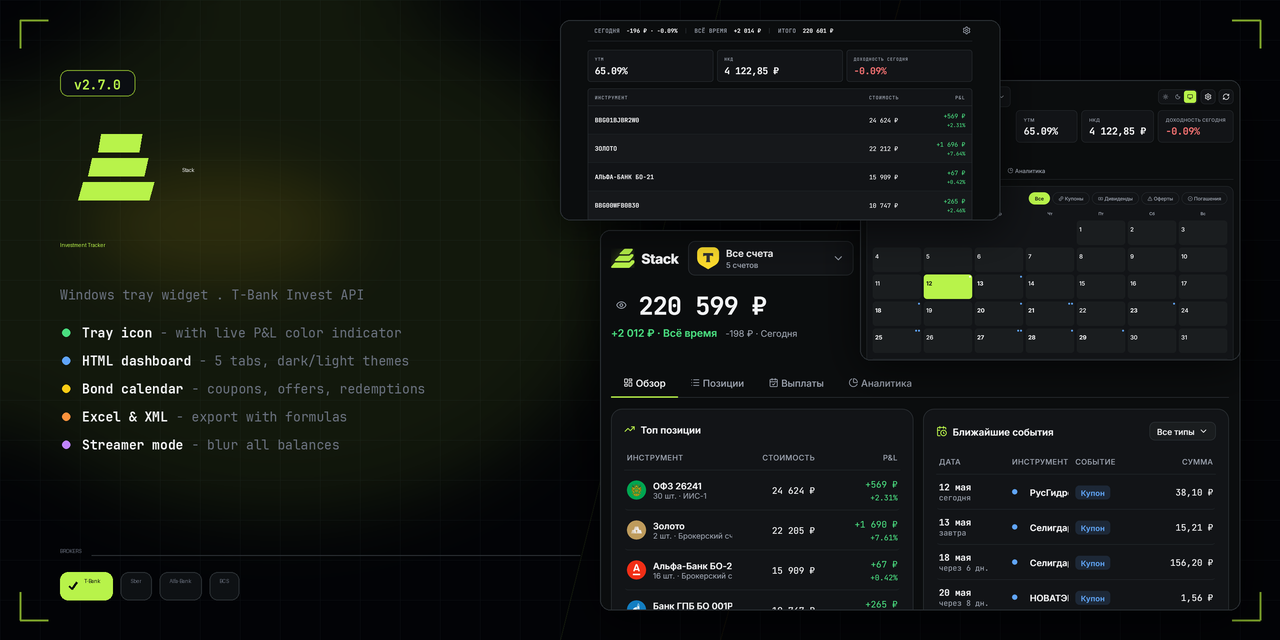
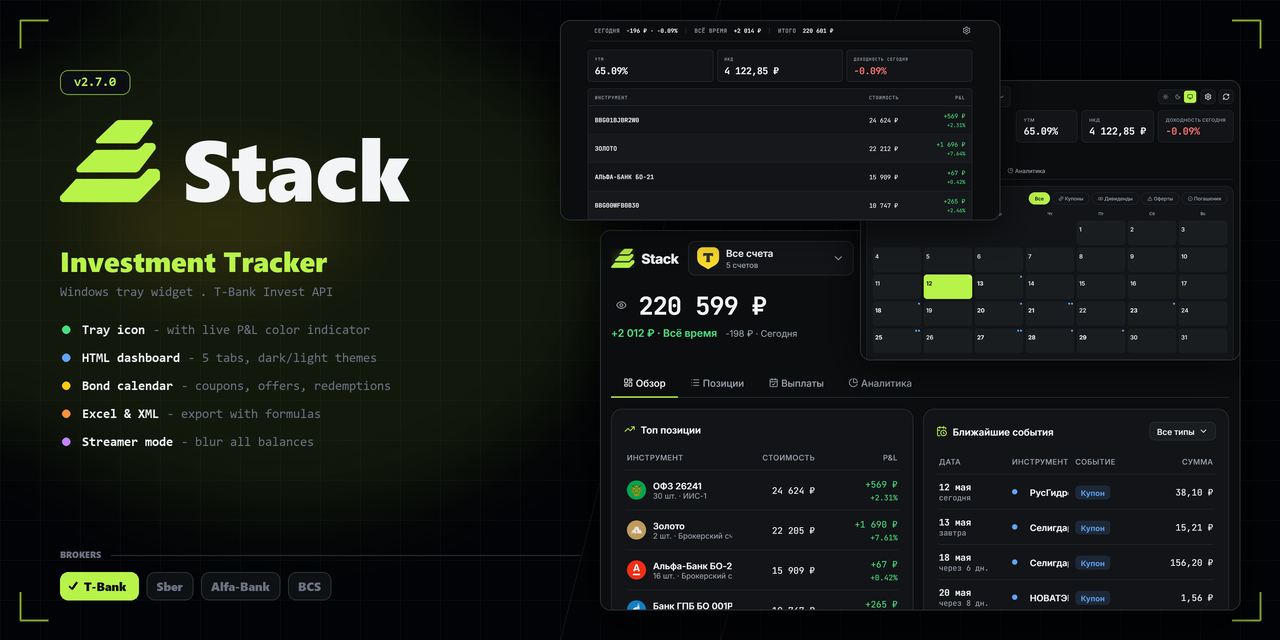
v2.7.3

diff --git a/README.md b/README.md
@@ -4,26 +4,243 @@
 
 # Stack
 
-**Windows-виджет в трее для отслеживания инвестиционного портфеля**
+**Windows tray widget for tracking your investment portfolio**
 
 [![Python](https://img.shields.io/badge/Python-3.13+-3776AB?logo=python&logoColor=white)](https://www.python.org/)
 [![Windows](https://img.shields.io/badge/Windows-10%2F11-0078D6?logo=windows&logoColor=white)](https://www.microsoft.com/windows)
 [![Release](https://img.shields.io/github/v/release/Damfler/Invest-Dekstop-Watcher?color=B8F34A&label=release)](https://github.com/Damfler/Invest-Dekstop-Watcher/releases/latest)
 [![License](https://img.shields.io/badge/License-MIT-green.svg)](LICENSE)
 
-<a href="https://github.com/Damfler/Invest-Dekstop-Watcher/releases/latest">
-  <img src="https://img.shields.io/badge/Скачать-Stack.exe-B8F34A?style=for-the-badge&logo=windows&logoColor=0B0D0E&labelColor=0B0D0E" alt="Download" />
-</a>
+<p>
+  <a href="#english"><img src="https://img.shields.io/badge/Readme-English-B8F34A?style=for-the-badge&labelColor=0B0D0E&color=0B0D0E" alt="English" /></a>
+  &nbsp;
+  <a href="#russian"><img src="https://img.shields.io/badge/Readme-Русский-FF2D55?style=for-the-badge&labelColor=0B0D0E&color=0B0D0E" alt="Русский" /></a>
+</p>
+
+<sub>Click a badge to jump · expand a section below to read</sub>
+
+</div>
 
 ---
 
-<img src="assets/github-social-preview.png" alt="Stack — Investment Tracker" width="100%" />
+<a id="english"></a>
+
+<details open>
+<summary><strong>🇬🇧 English</strong></summary>
+
+<div align="center">
+
+<a href="https://github.com/Damfler/Invest-Dekstop-Watcher/releases/latest">
+  <img src="https://img.shields.io/badge/Download-Stack.exe-B8F34A?style=for-the-badge&logo=windows&logoColor=0B0D0E&labelColor=0B0D0E" alt="Download" />
+</a>
+
+<br><br>
+
+<img src="assets/github-social-preview-en.png" alt="Stack — Investment Tracker" width="100%" />
+
+</div>
+
+## What is Stack?
+
+**Stack** lives in the Windows system tray and shows your investment portfolio in near real time. The tray icon reflects current P&L; a left click opens an HTML dashboard with positions, bonds, events (coupons / offers / maturities), charts, and per-account filters.
+
+**T-Bank Invest API** is supported today. The architecture is ready for more brokers.
+
+## Features
+
+| | |
+|---|---|
+| 🟢 **Tray icon** | Color reflects P&L: green / red / gray. Offer soon → orange; offer today → blinking red |
+| 📊 **HTML dashboard** | 5 tabs: Overview, Positions, Bonds, Analytics, Settings. Dark / light / system theme |
+| 📅 **Event calendar** | Coupons, offers, maturities with color coding and pop-up details |
+| 🥧 **Allocation** | Doughnut charts by asset type and by instrument, currency exposure |
+| 💰 **Coupon flow** | 12-month bar chart of expected coupons |
+| 🏦 **Multi-account** | Compare accounts, filter, per-account totals |
+| 🔍 **Search & filters** | Position search, 6 sort modes, filters by instrument type |
+| 📤 **Export** | Excel (.xlsx with formulas) and XML, 2 sheets |
+| 🔔 **Notifications** | Windows toasts: offers, coupons, portfolio moves |
+| 🔄 **Auto-update** | Via GitHub Releases — one click, automatic restart |
+| 🎬 **Streamer mode** | Blur balances with one click |
+| ⌨ **Hotkeys** | `Ctrl+R` refresh, `Esc` close, `1-4` switch tabs |
+| 💿 **Compact mode** | Mono table layout — minimal chrome for daily use |
+
+## Installation
+
+### 🚀 Pre-built `.exe` — recommended
+
+1. [Download Stack.exe](https://github.com/Damfler/Invest-Dekstop-Watcher/releases/latest) from the latest release
+2. Run it — the first-run wizard opens
+3. Create a token in **T-Invest → Settings → API → Create token** (read-only)
+4. Paste the token in the wizard; optionally enable “Run with Windows”
+
+User data is stored in `%APPDATA%\Stack\` (config, cache, logs). The app itself is a single `Stack.exe` (~50–80 MB), no extra runtime required.
+
+### 🛠 From source
+
+```bash
+git clone https://github.com/Damfler/Invest-Dekstop-Watcher.git
+cd Invest-Dekstop-Watcher
+pip install -r requirements.txt
+python main.py
+```
+
+For development, put your token in `.env`:
+
+```
+TBANK_TOKEN=t.your_token_here
+```
+
+## Configuration
+
+`config.json` is created automatically in `%APPDATA%\Stack\` (`.exe`) or next to the script (dev). Most options are available in the dashboard — **Settings** (gear in the header).
+
+| Parameter | Description |
+|----------|----------|
+| `theme` | Dashboard theme: `system` / `dark` / `light` |
+| `design` | Layout: `classic` / `simple` (compact mono mode) |
+| `bond_horizon_days` | Bond event horizon (30–365 days) |
+| `notify_offer_days` | Days before an offer to warn |
+| `notify_move_pct` | Portfolio move threshold (%) for notifications |
+| `auto_update` | Check for updates on startup |
+| `use_logos` | Instrument logos from T-Bank CDN |
+
+## Architecture
+
+<details>
+<summary>Project structure</summary>
+
+```text
+├── main.py              # Entry point, wizard, init
+├── version.py           # APP_VERSION, APP_NAME
+├── constants.py         # Timers, alerts, broker list
+├── core/
+│   ├── app.py           # StackTrayApp — pystray + pywebview
+│   ├── data_store.py    # Thread-safe store with snapshot()
+│   ├── config.py        # Load/save config.json
+│   └── cache.py         # Data cache + portfolio history
+├── api/
+│   ├── client.py        # T-Bank REST client (retry, rate-limit)
+│   └── endpoints.py     # Endpoint URLs
+├── ui/
+│   ├── window.py        # pywebview window + JS API
+│   ├── menu.py          # Callable pystray menu
+│   ├── wizard.py        # First-run wizard
+│   └── icons.py         # Tray icons (Pillow + PNG from assets/)
+├── utils/
+│   ├── formatting.py    # Number/date formatting
+│   ├── analytics.py     # YTM, allocation, top-movers, cashflow
+│   ├── notifications.py # Toast notifications (plyer)
+│   ├── autostart.py     # Windows autostart registry
+│   └── updater.py       # GitHub Releases auto-update
+├── assets/
+│   ├── dashboard.html   # HTML dashboard (Chart.js + Lucide)
+│   └── icons/           # Logo, tray state icons
+└── tools/
+    ├── gen_icons.py             # Icon generator from logo.svg
+    └── gen_social_preview.py    # GitHub Social Preview
+```
+
+</details>
+
+<details>
+<summary>Tech stack</summary>
+
+- **Python 3.13+** — core runtime
+- **pystray** + **Pillow** — tray icon, sprite generation
+- **pywebview** (Edge WebView2) — dashboard window
+- **requests** — T-Bank REST client
+- **plyer** — native Windows toast notifications
+- **openpyxl** — Excel export with formulas
+- **Chart.js** + **Lucide** + **html2canvas** — frontend (CDN)
+- **resvg-py** — SVG icon rendering (build-time)
+- **PyInstaller** — single-file `.exe` build
+
+</details>
+
+## Build `.exe`
+
+```bash
+build.bat
+# or directly:
+python -m PyInstaller stack.spec --noconfirm --clean
+```
+
+Output: `dist/Stack.exe`. Resources (HTML, icons) are bundled inside.
+
+## Icons
+
+All tray state icons (`positive.png` / `negative.png` / `neutral.png` / `warn.png` / `crit.png`) are generated from one `assets/icons/logo.svg`:
+
+```bash
+python tools/gen_icons.py             # all: PNG icons + .ico
+python tools/gen_icons.py --states    # tray states only
+python tools/gen_icons.py --brand     # icon.png + icon.ico only
+```
+
+Icons are rendered with `resvg-py` (native Rust renderer, no cairo), recolored via alpha channel on a squircle background. Custom colors: edit `PRESETS` in `tools/gen_icons.py`.
+
+## GitHub Social Preview
+
+Repository share image (1280×640). Uses real app screenshots from `assets/mockups/` when present; otherwise draws a mockup with Pillow.
+
+```bash
+python tools/gen_social_preview.py            # en (default)
+python tools/gen_social_preview.py --locale ru
+python tools/gen_social_preview.py --all      # both locales
+```
+
+Capture screenshots from the app: enable **Dev mode** in Settings → click 📷 in the header on the screen you need.
+
+**Upload to GitHub:** `Settings → Options → Social preview → Edit → Upload image` (use `assets/github-social-preview-en.png`).
+
+## Supported brokers
+
+| Broker | Status |
+|--------|--------|
+| 🟢 **T-Bank (T-Invest)** | Ready |
+| 🟡 Sber Invest | Planned |
+| 🟡 VTB My Investments | Planned |
+| 🟡 Alfa Investments | Planned |
+| 🟡 BCS World of Investments | Planned |
+
+Broker list lives in `constants.BROKERS` + `wizard.py`. To add one: implement an `api/client.py`-compatible class and add `elif broker == "xxx"` in `main.py`.
+
+## Author
+
+**Dmitry Gashuk**
+
+<a href="https://pay.cloudtips.ru/p/789f174f">
+  <img src="https://img.shields.io/badge/❤-Support%20the%20project-FF2D55?style=for-the-badge" alt="Donate" />
+</a>
+
+<div align="center">
+<sub>Made with ❤ · 2026</sub>
+</div>
+
+</details>
+
+---
+
+<a id="russian"></a>
+
+<details>
+<summary><strong>🇷🇺 Русский</strong></summary>
+
+<div align="center">
+
+<a href="https://github.com/Damfler/Invest-Dekstop-Watcher/releases/latest">
+  <img src="https://img.shields.io/badge/Скачать-Stack.exe-B8F34A?style=for-the-badge&logo=windows&logoColor=0B0D0E&labelColor=0B0D0E" alt="Скачать" />
+</a>
+
+<br><br>
+
+<img src="assets/github-social-preview-ru.png" alt="Stack — трекер инвестиций" width="100%" />
 
 </div>
 
 ## Что это
 
-**Stack** живёт в системном трее Windows и показывает состояние твоего инвестиционного портфеля в реальном времени. Иконка меняет цвет в зависимости от текущего P&L, по левому клику открывается HTML-дашборд с подробной аналитикой: позиции, облигации, события (купоны/оферты/погашения), графики и фильтры по счетам.
+**Stack** живёт в системном трее Windows и показывает состояние инвестиционного портфеля в реальном времени. Иконка меняет цвет в зависимости от текущего P&L, по левому клику открывается HTML-дашборд: позиции, облигации, события (купоны / оферты / погашения), графики и фильтры по счетам.
 
 Сейчас поддерживается **T-Bank Invest API**. Архитектура подготовлена для других брокеров.
 
@@ -31,8 +248,8 @@
 
 | | |
 |---|---|
-| 🟢 **Трей-иконка** | Цвет отражает P&L: зелёный/красный/серый. При оферте — оранжевая, при оферте сегодня — мигающая красная |
-| 📊 **HTML-дашборд** | 5 вкладок: Обзор, Позиции, Облигации, Аналитика, Настройки. Тёмная/светлая/системная тема |
+| 🟢 **Трей-иконка** | Цвет отражает P&L: зелёный / красный / серый. При оферте — оранжевая, при оферте сегодня — мигающая красная |
+| 📊 **HTML-дашборд** | 5 вкладок: Обзор, Позиции, Облигации, Аналитика, Настройки. Тёмная / светлая / системная тема |
 | 📅 **Календарь событий** | Купоны, оферты, погашения с цветовой подсветкой и popup-деталями |
 | 🥧 **Аллокация** | Doughnut-чарт по типам и по бумагам, валютная экспозиция |
 | 💰 **Купонный поток** | Бар-чарт по месяцам на 12 месяцев вперёд |
@@ -43,7 +260,7 @@
 | 🔄 **Автообновление** | Через GitHub Releases — одна кнопка, перезапуск автоматически |
 | 🎬 **Режим стримера** | Размытие балансов одним кликом |
 | ⌨ **Горячие клавиши** | `Ctrl+R` обновить, `Esc` закрыть, `1-4` табы |
-| 🪶 **Компактный режим** | Mono-таблица без лишних элементов — для повседневного использования |
+| 💿 **Компактный режим** | Mono-таблица без лишних элементов — для повседневного использования |
 
 ## Установка
 
@@ -66,13 +283,14 @@ python main.py
 ```
 
 Для разработки положи токен в `.env`:
+
 ```
 TBANK_TOKEN=t.твой_токен
 ```
 
 ## Конфигурация
 
-`config.json` создаётся автоматически в `%APPDATA%\Stack\` (`.exe`) или рядом со скриптом (dev). Большинство параметров переключаются прямо из дашборда — раздел «Настройки» (шестерёнка в шапке).
+`config.json` создаётся автоматически в `%APPDATA%\Stack\` (`.exe`) или рядом со скриптом (dev). Большинство параметров переключаются из дашборда — раздел «Настройки» (шестерёнка в шапке).
 
 | Параметр | Описание |
 |----------|----------|
@@ -157,11 +375,11 @@ python tools/gen_icons.py --states    # только трей-состояния
 python tools/gen_icons.py --brand     # только icon.png + icon.ico
 ```
 
-Иконки рендерятся через `resvg-py` (нативный Rust-рендерер, без cairo) с перекраской по альфа-каналу и наложением на squircle-фон нужного цвета. Хочешь свой цвет? Поправь `PRESETS` в `tools/gen_icons.py`.
+Иконки рендерятся через `resvg-py` с перекраской по альфа-каналу и наложением на squircle-фон. Свой цвет — поправь `PRESETS` в `tools/gen_icons.py`.
 
 ## GitHub Social Preview
 
-Превью-картинка для шаринга репозитория (1280×640). Использует реальные скриншоты приложения из `assets/mockups/` если они есть, иначе рисует мокап средствами Pillow.
+Превью-картинка для шаринга репозитория (1280×640). Использует скриншоты из `assets/mockups/` или рисует мокап через Pillow.
 
 ```bash
 python tools/gen_social_preview.py            # en (по умолчанию)
@@ -169,9 +387,9 @@ python tools/gen_social_preview.py --locale ru
 python tools/gen_social_preview.py --all      # обе локали сразу
 ```
 
-Скриншоты сохраняются прямо из приложения: вкл `Dev-режим` в настройках → нажми иконку 📷 в шапке на нужном экране.
+Скриншоты из приложения: **Dev-режим** в настройках → иконка 📷 в шапке на нужном экране.
 
-**Загрузка в репо:** `Settings → Options → Social preview → Edit → Upload image`.
+**Загрузка в репо:** `Settings → Options → Social preview → Edit → Upload image` (файл `assets/github-social-preview-ru.png`).
 
 ## Поддерживаемые брокеры
 
@@ -183,7 +401,7 @@ python tools/gen_social_preview.py --all      # обе локали сразу
 | 🟡 Альфа-Инвестиции | В планах |
 | 🟡 БКС Мир Инвестиций | В планах |
 
-Структура подготовлена в `constants.BROKERS` + `wizard.py`. Чтобы добавить брокера — реализуй `api/client.py`-совместимый класс и добавь `elif broker == "xxx"` в `main.py`.
+Чтобы добавить брокера — реализуй класс, совместимый с `api/client.py`, и добавь `elif broker == "xxx"` в `main.py`.
 
 ## Разработчик
 
@@ -193,8 +411,8 @@ python tools/gen_social_preview.py --all      # обе локали сразу
   <img src="https://img.shields.io/badge/❤-Поддержать%20проект-FF2D55?style=for-the-badge" alt="Donate" />
 </a>
 
----
-
 <div align="center">
-<sub>Сделано с ❤ в Москве · 2026</sub>
+<sub>Сделано с ❤ · 2026</sub>
 </div>
+
+</details>
